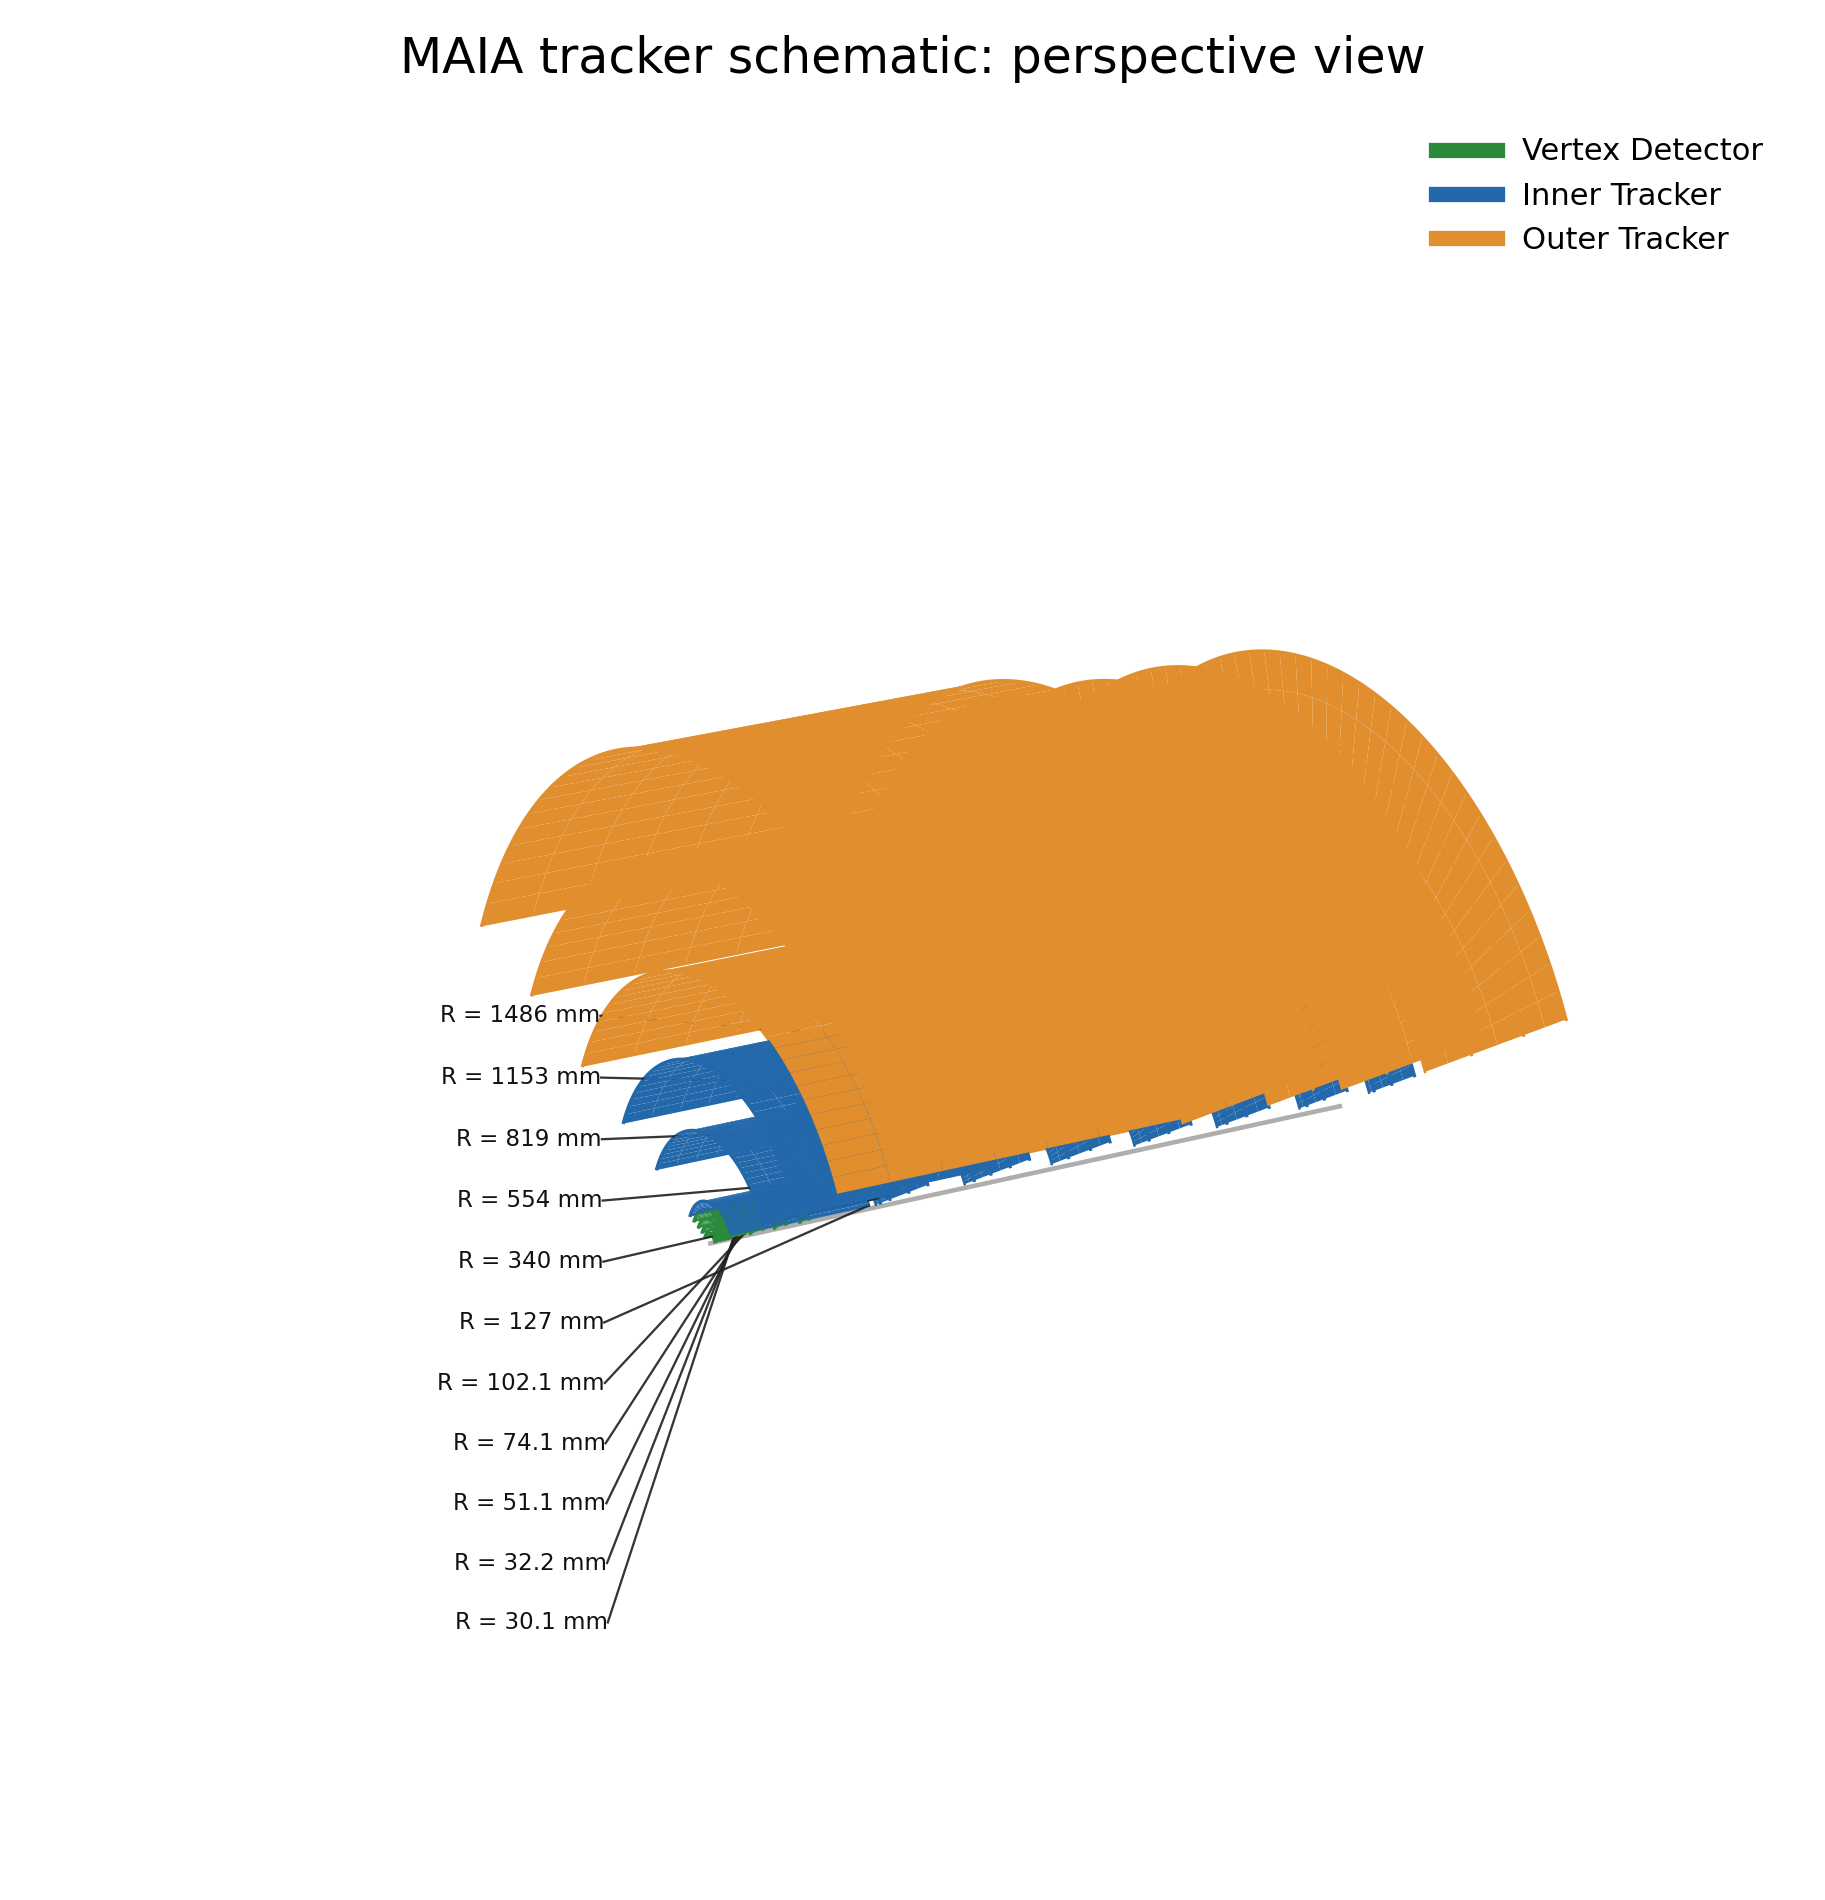
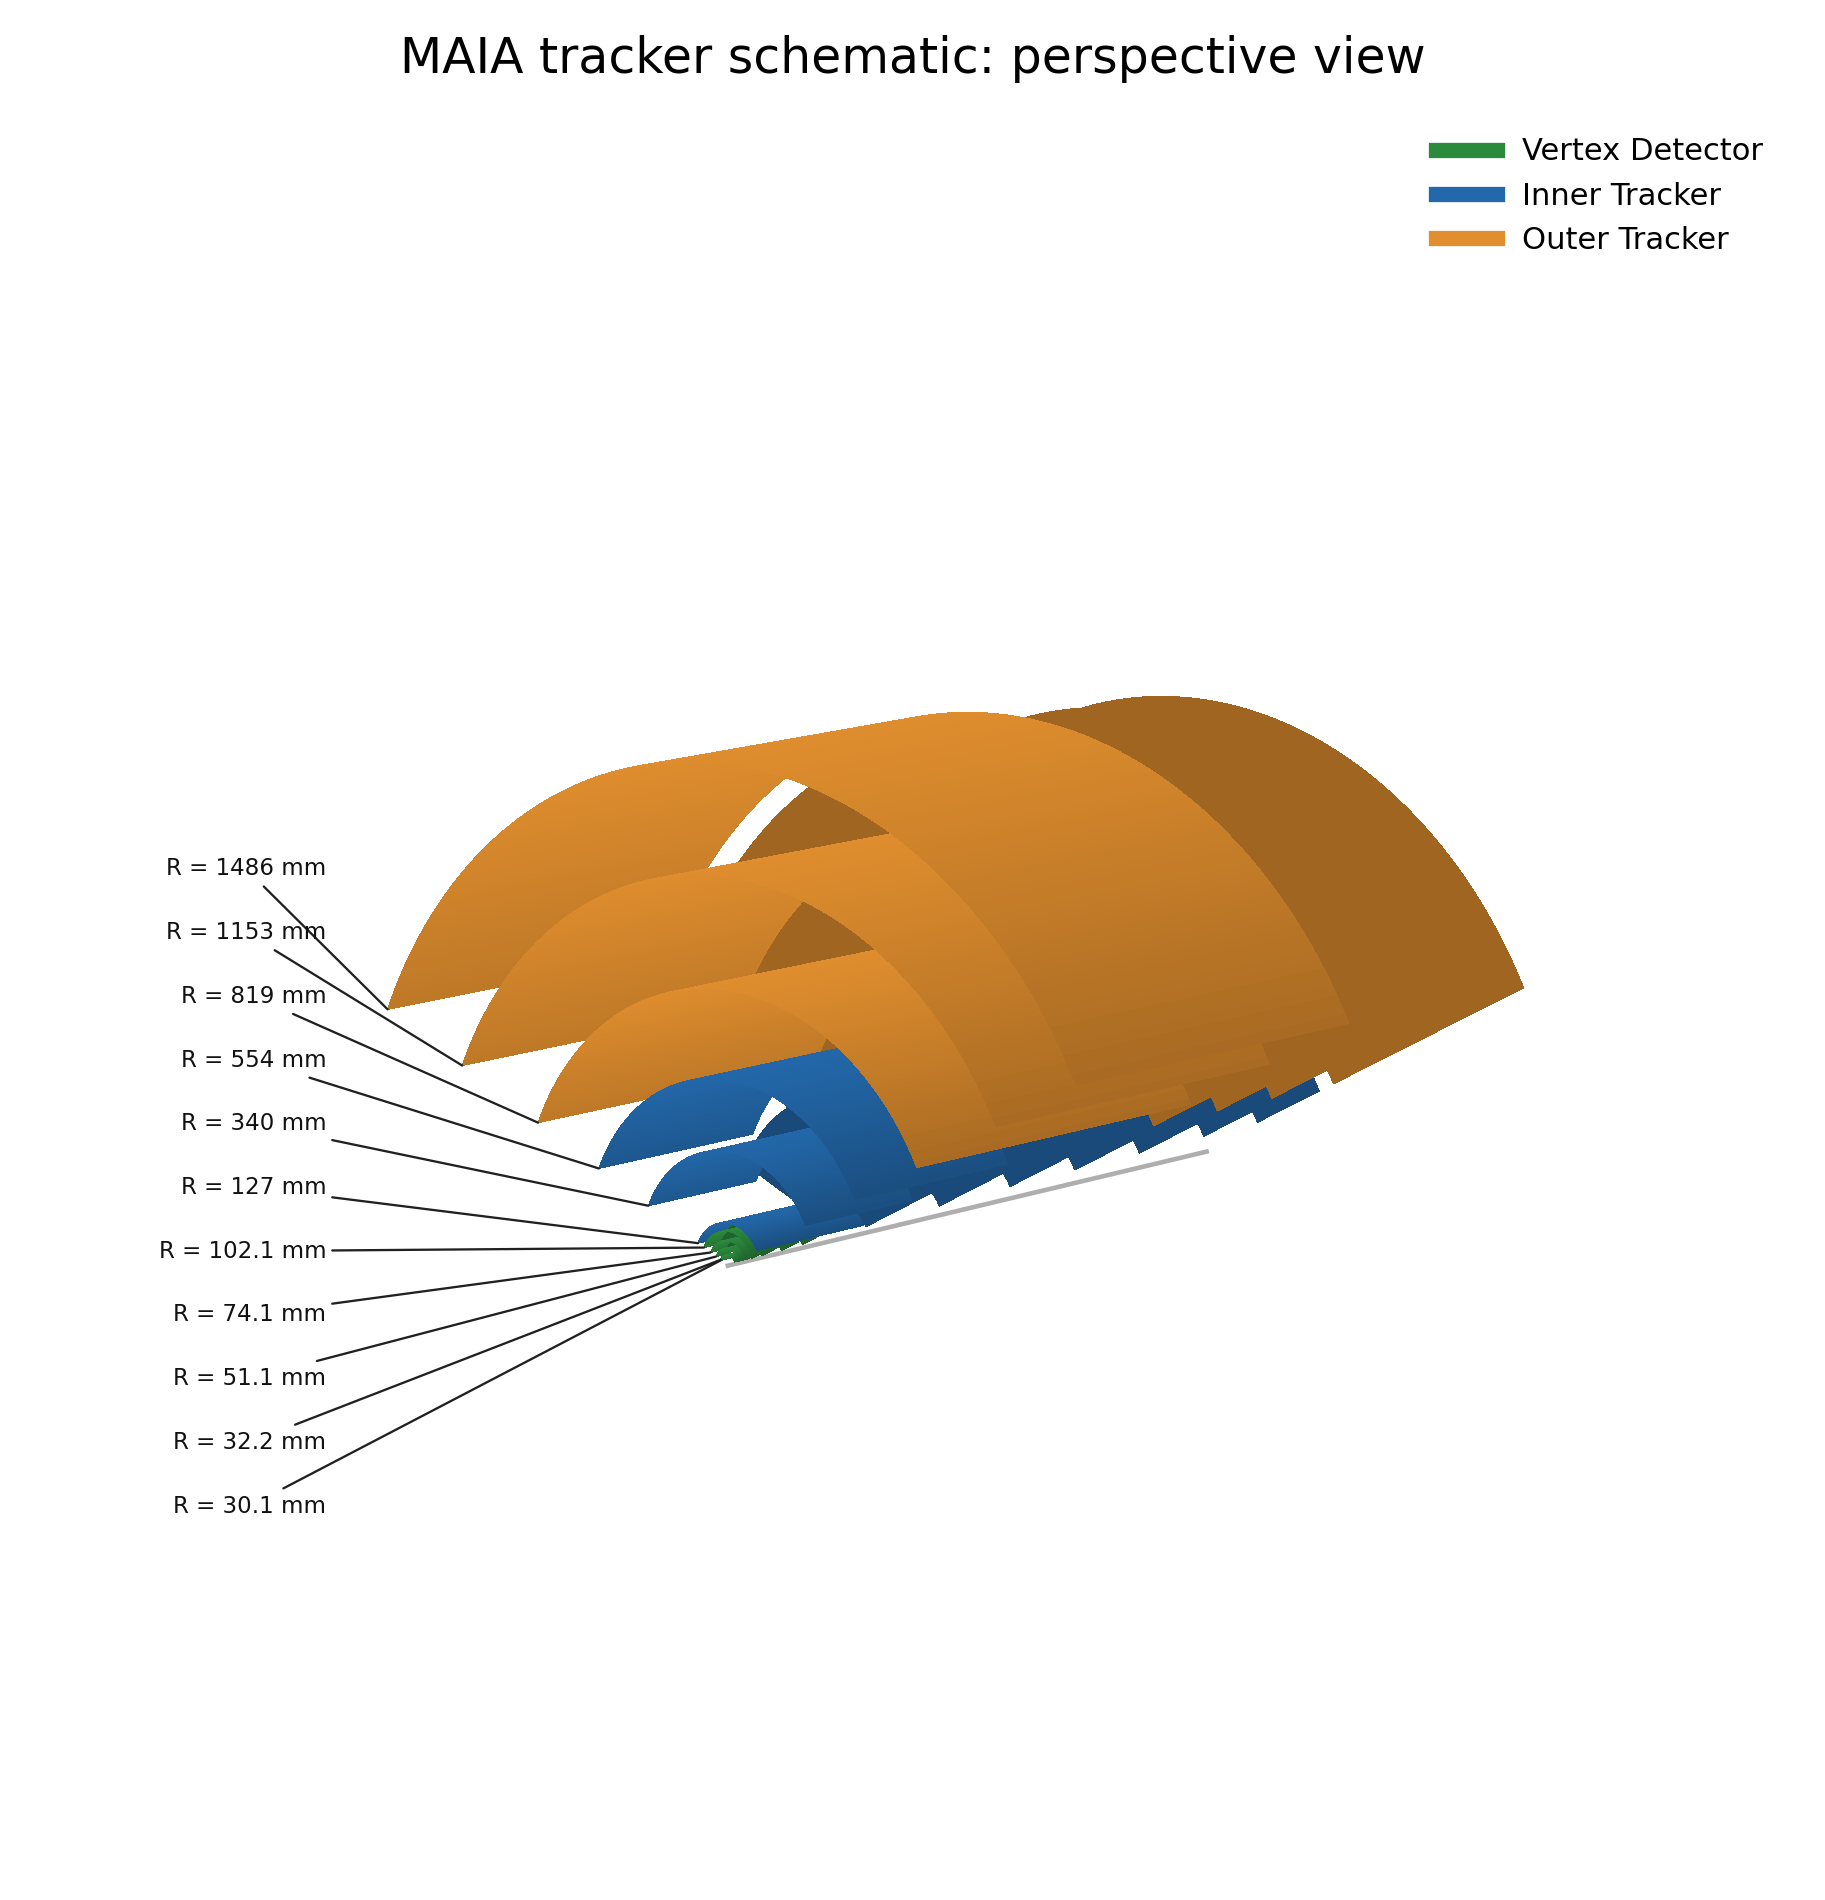
Fixed perspective drawing basics

Changed region(s): [[0.1249, 0.3416, 0.8745, 0.8384], [0.1562, 0.7142, 0.1874, 0.7763]]

diff --git a/make_maia_schematics.py b/make_maia_schematics.py
@@ -40,8 +40,11 @@ os.environ.setdefault("XDG_CACHE_HOME", str(CACHE_DIR / "xdg"))
 
 import matplotlib.pyplot as plt
 import numpy as np
+from matplotlib.colors import LightSource
 from matplotlib.lines import Line2D
 from matplotlib.patches import Circle, Polygon, Rectangle, Wedge
+from mpl_toolkits.mplot3d.art3d import Poly3DCollection
+from mpl_toolkits.mplot3d import proj3d
 
 
 SUBSYSTEM_COLORS = {
@@ -888,44 +891,113 @@ def surface_for_annular_sector(
     return x, y, z
 
 
+def surface_grid_faces(x: np.ndarray, y: np.ndarray, z: np.ndarray) -> list[list[tuple[float, float, float]]]:
+    faces: list[list[tuple[float, float, float]]] = []
+    for row in range(x.shape[0] - 1):
+        for col in range(x.shape[1] - 1):
+            faces.append(
+                [
+                    (float(x[row, col]), float(y[row, col]), float(z[row, col])),
+                    (float(x[row + 1, col]), float(y[row + 1, col]), float(z[row + 1, col])),
+                    (float(x[row + 1, col + 1]), float(y[row + 1, col + 1]), float(z[row + 1, col + 1])),
+                    (float(x[row, col + 1]), float(y[row, col + 1]), float(z[row, col + 1])),
+                ]
+            )
+    return faces
+
+
+def add_tracker_surface_collection(
+    ax: plt.Axes,
+    faces: list[list[tuple[float, float, float]]],
+    facecolors: list[str],
+    lightsource: LightSource,
+) -> None:
+    surface_collection = Poly3DCollection(
+        np.asarray(faces, dtype=float),
+        facecolors=facecolors,
+        linewidths=0,
+        alpha=1.0,
+        antialiaseds=False,
+        shade=True,
+        lightsource=lightsource,
+        zsort="average",
+    )
+    ax.add_collection3d(surface_collection)
+
+
+def projected_leftmost_barrel_point(
+    ax: plt.Axes,
+    layer: BarrelLayer,
+    phi: np.ndarray,
+) -> tuple[float, float, float]:
+    x_samples = np.linspace(0.0, layer.z_half, 72)
+    candidate_x = np.concatenate(
+        [
+            np.zeros_like(phi),
+            np.full_like(phi, layer.z_half),
+            x_samples,
+            x_samples,
+        ]
+    )
+    candidate_phi = np.concatenate(
+        [
+            phi,
+            phi,
+            np.full_like(x_samples, phi[0]),
+            np.full_like(x_samples, phi[-1]),
+        ]
+    )
+    candidate_y = layer.radius * np.cos(candidate_phi)
+    candidate_z = layer.radius * np.sin(candidate_phi)
+    projected_x, projected_y, _ = proj3d.proj_transform(candidate_x, candidate_y, candidate_z, ax.get_proj())
+    display_xy = ax.transData.transform(np.column_stack([projected_x, projected_y]))
+    index = int(np.argmin(display_xy[:, 0]))
+    return float(candidate_x[index]), float(candidate_y[index]), float(candidate_z[index])
+
+
+def project_point_to_axes(ax: plt.Axes, point: tuple[float, float, float]) -> tuple[float, float]:
+    projected_x, projected_y, _ = proj3d.proj_transform(*point, ax.get_proj())
+    display_xy = ax.transData.transform((projected_x, projected_y))
+    axes_xy = ax.transAxes.inverted().transform(display_xy)
+    return float(axes_xy[0]), float(axes_xy[1])
+
+
 def draw_3d_radius_callouts(
     ax: plt.Axes,
     layers: list[BarrelLayer],
-    z_max: float,
-    r_max: float,
     unit: str,
-    phi_anchor: float,
+    phi: np.ndarray,
 ) -> None:
-    label_x = -0.72 * z_max
-    label_y = -1.42 * r_max
-    label_z_positions = np.linspace(1.10 * r_max, -0.07 * r_max, len(layers))
+    sorted_layers = sorted(layers, key=lambda item: item.radius, reverse=True)
+    target_positions = [
+        project_point_to_axes(ax, projected_leftmost_barrel_point(ax, layer, phi)) for layer in sorted_layers
+    ]
+    target_xs, target_ys = zip(*target_positions)
+    label_x = max(0.02, min(target_xs) - 0.035)
+    label_y_top = min(0.86, max(target_ys) + 0.08)
+    label_y_bottom = max(0.08, min(target_ys) - 0.14)
+    label_y_positions = np.linspace(label_y_top, label_y_bottom, len(sorted_layers))
 
-    for layer, label_z in zip(sorted(layers, key=lambda item: item.radius, reverse=True), label_z_positions):
-        target = (
-            layer.z_half,
-            layer.radius * math.cos(phi_anchor),
-            layer.radius * math.sin(phi_anchor),
-        )
-        start = (label_x, label_y, label_z)
-        ax.plot(
-            [start[0], target[0]],
-            [start[1], target[1]],
-            [start[2], target[2]],
-            color="#202020",
-            lw=0.75,
-            alpha=0.9,
-            zorder=20,
-        )
-        ax.text(
-            start[0],
-            start[1],
-            start[2],
+    for layer, target, label_y in zip(sorted_layers, target_positions, label_y_positions):
+        ax.annotate(
             fmt_radius(layer.radius, unit),
+            xy=target,
+            xycoords=ax.transAxes,
+            xytext=(label_x, float(label_y)),
+            textcoords=ax.transAxes,
             color="#111111",
             fontsize=7.5,
             ha="right",
             va="center",
-            zorder=21,
+            annotation_clip=False,
+            arrowprops={
+                "arrowstyle": "-",
+                "color": "#202020",
+                "lw": 0.75,
+                "shrinkA": 0.0,
+                "shrinkB": 0.0,
+            },
+            zorder=30,
         )
 
 
@@ -939,17 +1011,18 @@ def draw_tracker_3d(model: GeometryModel, output_path: Path, unit: str, dpi: int
     r_max = max([layer.radius for layer in tracker_layers] + [ring.r_max for ring in tracker_rings])
 
     phi = np.linspace(math.radians(24), math.radians(152), 112)
-    phi_anchor = math.radians(152)
+    tracker_light = LightSource(azdeg=315, altdeg=75)
+    surface_faces: list[list[tuple[float, float, float]]] = []
+    surface_facecolors: list[str] = []
 
-    # Draw outer layers first so the smaller inner layers remain visible.
+    # Put every tracker face in one collection so opaque layers depth-sort by
+    # where they sit in space, not by which layer loop created them.
     for layer in sorted(tracker_layers, key=lambda item: item.radius, reverse=True):
         color = SUBSYSTEM_COLORS[layer.subsystem]
         x, y, z = surface_for_cylinder(layer.radius, layer.z_half, phi)
-        ax.plot_surface(x, y, z, color=color, alpha=1.0, linewidth=0, shade=False, zorder=4)
-        ax.plot(x[:, 0], y[:, 0], z[:, 0], color=color, lw=1.1, alpha=1.0, zorder=8)
-        ax.plot(x[:, -1], y[:, -1], z[:, -1], color=color, lw=1.0, alpha=1.0, zorder=7)
-        ax.plot(x[0, :], y[0, :], z[0, :], color=color, lw=0.8, alpha=1.0, zorder=7)
-        ax.plot(x[-1, :], y[-1, :], z[-1, :], color=color, lw=0.8, alpha=1.0, zorder=7)
+        faces = surface_grid_faces(x, y, z)
+        surface_faces.extend(faces)
+        surface_facecolors.extend([color] * len(faces))
 
     grouped_rings: dict[tuple[str, str], list[EndcapRing]] = {}
     for ring in tracker_rings:
@@ -959,9 +1032,11 @@ def draw_tracker_3d(model: GeometryModel, output_path: Path, unit: str, dpi: int
         color = SUBSYSTEM_COLORS[rings[0].subsystem]
         for ring in rings:
             x, y, z = surface_for_annular_sector(ring.z, ring.r_min, ring.r_max, phi)
-            ax.plot_surface(x, y, z, color=color, alpha=1.0, linewidth=0, shade=False, zorder=5)
-            ax.plot(x[:, 0], y[:, 0], z[:, 0], color=color, lw=0.8, alpha=1.0, zorder=8)
-            ax.plot(x[:, -1], y[:, -1], z[:, -1], color=color, lw=1.0, alpha=1.0, zorder=9)
+            faces = surface_grid_faces(x, y, z)
+            surface_faces.extend(faces)
+            surface_facecolors.extend([color] * len(faces))
+
+    add_tracker_surface_collection(ax, surface_faces, surface_facecolors, tracker_light)
 
     # A slim beam line anchors the perspective without introducing non-tracker geometry.
     ax.plot([0.0, z_max * 1.03], [0.0, 0.0], [0.0, 0.0], color="#9a9a9a", lw=1.5, alpha=0.8)
@@ -970,7 +1045,6 @@ def draw_tracker_3d(model: GeometryModel, output_path: Path, unit: str, dpi: int
         round(layer.radius, 6): layer
         for layer in sorted(tracker_layers, key=lambda item: item.z_half, reverse=True)
     }
-    draw_3d_radius_callouts(ax, list(radius_layers.values()), z_max, r_max, unit, phi_anchor)
 
     legend_items = [
         Line2D([0], [0], color=SUBSYSTEM_COLORS[name], lw=5, label=name)
@@ -983,7 +1057,9 @@ def draw_tracker_3d(model: GeometryModel, output_path: Path, unit: str, dpi: int
     ax.set_ylim(-1.40 * r_max, 1.02 * r_max)
     ax.set_zlim(-0.02 * r_max, 1.16 * r_max)
     ax.set_box_aspect((1.60 * z_max, 2.42 * r_max, 1.18 * r_max))
-    ax.view_init(elev=19, azim=-122)
+    ax.view_init(elev=10, azim=-140)  # Change this to alter angle
+    fig.canvas.draw()
+    draw_3d_radius_callouts(ax, list(radius_layers.values()), unit, phi)
     ax.set_axis_off()
     fig.savefig(output_path, dpi=dpi, bbox_inches="tight", pad_inches=0.16)
     plt.close(fig)
